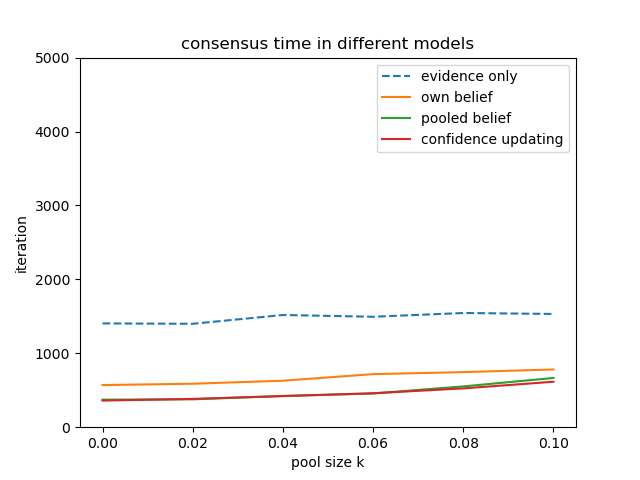
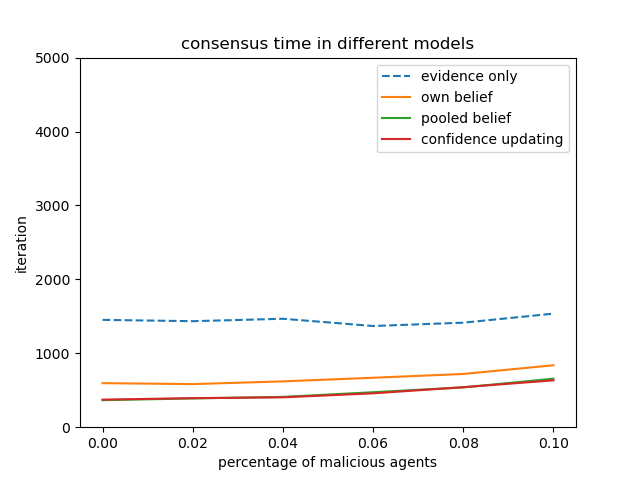
add malicious type 2 min rule

diff --git a/malicious_2_malicious.py b/malicious_2_malicious.py
@@ -56,15 +56,12 @@ consensus_own = []
 consensus_pooled = []
 consensus_confidence = []
 
-
-threshold_ls = [0.1, 0.3, 0.5, 0.7, 0.9]
-
 k = 5
 
-malicious = 0.1
+mal_x_ls = [0, 0.02, 0.04, 0.06, 0.08, 0.1]
 
 
-for threshold in threshold_ls:
+for malicious in mal_x_ls:
     pooling = False
     model = None
     malicious_type = None
@@ -79,7 +76,7 @@ for threshold in threshold_ls:
 
     pooling = True
     model = 'bc_own_belief'
-    malicious_type = 'fixed_belief'
+    malicious_type = 'min_rule'
 
     result_own = simulate_model(simulation_times=simulation_times, pop_n=pop_n, max_iteration=max_iteration,
                                 model=model, malicious_type=malicious_type,
@@ -91,7 +88,7 @@ for threshold in threshold_ls:
 
     pooling = True
     model = 'bc_pooled_belief'
-    malicious_type = 'fixed_belief'
+    malicious_type = 'min_rule'
     result_pooled = simulate_model(simulation_times=simulation_times, pop_n=pop_n, max_iteration=max_iteration,
                                    model=model, malicious_type=malicious_type,
                                    k=k, init_x=init_x, mal_x=mal_x, alpha=alpha, prob_evidence=prob_evidence,
@@ -102,7 +99,7 @@ for threshold in threshold_ls:
 
     pooling = True
     model = 'confidence_updating'
-    malicious_type = 'fixed_belief'
+    malicious_type = 'min_rule'
     result_confidence = simulate_model(simulation_times=simulation_times, pop_n=pop_n, max_iteration=max_iteration,
                                        model=model, malicious_type=malicious_type,
                                        k=k, init_x=init_x, mal_x=mal_x, alpha=alpha, prob_evidence=prob_evidence,
@@ -111,30 +108,32 @@ for threshold in threshold_ls:
     belief_confidence.append(result_confidence['belief_avg_true_good'].mean(axis=1)[-1])
     consensus_confidence.append(int(result_confidence['consensus'].mean()))
 
-plt.figure('avg belief (threshold)')
+plt.figure('avg belief (malicious)')
 
-plt.plot(threshold_ls, belief_evidence, '--')
-plt.plot(threshold_ls, belief_own)
-plt.plot(threshold_ls, belief_pooled)
-plt.plot(threshold_ls, belief_confidence)
+plt.plot(mal_x_ls, belief_evidence, '--')
+plt.plot(mal_x_ls, belief_own)
+plt.plot(mal_x_ls, belief_pooled)
+plt.plot(mal_x_ls, belief_confidence)
 plt.ylim(0, 1.1)
 plt.legend(['evidence only', 'own belief', 'pooled belief', 'confidence updating'])
 plt.title(f'average belief over {int(max_iteration)} iterations in different models')
-plt.xlabel('threshold')
+plt.xlabel('percentage of malicious agents')
 plt.ylabel('avg belief')
-plt.savefig(file_name + 'malicious_1_threshold_avg_belief.png')
+plt.savefig(file_name + 'malicious_2_malicious_avg_belief.png')
 
 
-plt.figure('consensus (threshold)')
+plt.figure('consensus (malicious)')
 
-plt.plot(threshold_ls, consensus_evidence, '--')
-plt.plot(threshold_ls, consensus_own)
-plt.plot(threshold_ls, consensus_pooled)
-plt.plot(threshold_ls, consensus_confidence)
+plt.plot(mal_x_ls, consensus_evidence, '--')
+plt.plot(mal_x_ls, consensus_own)
+plt.plot(mal_x_ls, consensus_pooled)
+plt.plot(mal_x_ls, consensus_confidence)
 plt.ylim(0, max_iteration)
 plt.legend(['evidence only', 'own belief', 'pooled belief', 'confidence updating'])
 plt.title('consensus time in different models')
-plt.xlabel('threshold')
+plt.xlabel('percentage of malicious agents')
 plt.ylabel('iteration')
-plt.savefig(file_name + 'malicious_1_threshold_consensus.png')
+plt.savefig(file_name + 'malicious_2_malicious_consensus.png')
+
+
 

diff --git a/malicious_2_pool_size.py b/malicious_2_pool_size.py
@@ -57,14 +57,9 @@ consensus_pooled = []
 consensus_confidence = []
 
 
-threshold_ls = [0.1, 0.3, 0.5, 0.7, 0.9]
-
-k = 5
-
-malicious = 0.1
 
 
-for threshold in threshold_ls:
+for k in pool_ls:
     pooling = False
     model = None
     malicious_type = None
@@ -79,7 +74,7 @@ for threshold in threshold_ls:
 
     pooling = True
     model = 'bc_own_belief'
-    malicious_type = 'fixed_belief'
+    malicious_type = 'min_rule'
 
     result_own = simulate_model(simulation_times=simulation_times, pop_n=pop_n, max_iteration=max_iteration,
                                 model=model, malicious_type=malicious_type,
@@ -91,7 +86,7 @@ for threshold in threshold_ls:
 
     pooling = True
     model = 'bc_pooled_belief'
-    malicious_type = 'fixed_belief'
+    malicious_type = 'min_rule'
     result_pooled = simulate_model(simulation_times=simulation_times, pop_n=pop_n, max_iteration=max_iteration,
                                    model=model, malicious_type=malicious_type,
                                    k=k, init_x=init_x, mal_x=mal_x, alpha=alpha, prob_evidence=prob_evidence,
@@ -102,7 +97,7 @@ for threshold in threshold_ls:
 
     pooling = True
     model = 'confidence_updating'
-    malicious_type = 'fixed_belief'
+    malicious_type = 'min_rule'
     result_confidence = simulate_model(simulation_times=simulation_times, pop_n=pop_n, max_iteration=max_iteration,
                                        model=model, malicious_type=malicious_type,
                                        k=k, init_x=init_x, mal_x=mal_x, alpha=alpha, prob_evidence=prob_evidence,
@@ -111,30 +106,31 @@ for threshold in threshold_ls:
     belief_confidence.append(result_confidence['belief_avg_true_good'].mean(axis=1)[-1])
     consensus_confidence.append(int(result_confidence['consensus'].mean()))
 
-plt.figure('avg belief (threshold)')
+plt.figure('avg belief (pool size)')
 
-plt.plot(threshold_ls, belief_evidence, '--')
-plt.plot(threshold_ls, belief_own)
-plt.plot(threshold_ls, belief_pooled)
-plt.plot(threshold_ls, belief_confidence)
+plt.plot(pool_ls, belief_evidence, '--')
+plt.plot(pool_ls, belief_own)
+plt.plot(pool_ls, belief_pooled)
+plt.plot(pool_ls, belief_confidence)
 plt.ylim(0, 1.1)
 plt.legend(['evidence only', 'own belief', 'pooled belief', 'confidence updating'])
 plt.title(f'average belief over {int(max_iteration)} iterations in different models')
-plt.xlabel('threshold')
+plt.xlabel('pool size k')
 plt.ylabel('avg belief')
-plt.savefig(file_name + 'malicious_1_threshold_avg_belief.png')
+plt.savefig(file_name + 'malicious_2_pool_size_avg_belief.png')
 
 
-plt.figure('consensus (threshold)')
+plt.figure('consensus (pool size)')
 
-plt.plot(threshold_ls, consensus_evidence, '--')
-plt.plot(threshold_ls, consensus_own)
-plt.plot(threshold_ls, consensus_pooled)
-plt.plot(threshold_ls, consensus_confidence)
+plt.plot(pool_ls, consensus_evidence, '--')
+plt.plot(pool_ls, consensus_own)
+plt.plot(pool_ls, consensus_pooled)
+plt.plot(pool_ls, consensus_confidence)
 plt.ylim(0, max_iteration)
 plt.legend(['evidence only', 'own belief', 'pooled belief', 'confidence updating'])
 plt.title('consensus time in different models')
-plt.xlabel('threshold')
+plt.xlabel('pool size k')
 plt.ylabel('iteration')
-plt.savefig(file_name + 'malicious_1_threshold_consensus.png')
+plt.savefig(file_name + 'malicious_2_pool_size_consensus.png')
+
 

diff --git a/malicious_2_threshold.py b/malicious_2_threshold.py
@@ -79,7 +79,7 @@ for threshold in threshold_ls:
 
     pooling = True
     model = 'bc_own_belief'
-    malicious_type = 'fixed_belief'
+    malicious_type = 'min_rule'
 
     result_own = simulate_model(simulation_times=simulation_times, pop_n=pop_n, max_iteration=max_iteration,
                                 model=model, malicious_type=malicious_type,
@@ -91,7 +91,7 @@ for threshold in threshold_ls:
 
     pooling = True
     model = 'bc_pooled_belief'
-    malicious_type = 'fixed_belief'
+    malicious_type = 'min_rule'
     result_pooled = simulate_model(simulation_times=simulation_times, pop_n=pop_n, max_iteration=max_iteration,
                                    model=model, malicious_type=malicious_type,
                                    k=k, init_x=init_x, mal_x=mal_x, alpha=alpha, prob_evidence=prob_evidence,
@@ -102,7 +102,7 @@ for threshold in threshold_ls:
 
     pooling = True
     model = 'confidence_updating'
-    malicious_type = 'fixed_belief'
+    malicious_type = 'min_rule'
     result_confidence = simulate_model(simulation_times=simulation_times, pop_n=pop_n, max_iteration=max_iteration,
                                        model=model, malicious_type=malicious_type,
                                        k=k, init_x=init_x, mal_x=mal_x, alpha=alpha, prob_evidence=prob_evidence,
@@ -122,7 +122,7 @@ plt.legend(['evidence only', 'own belief', 'pooled belief', 'confidence updating
 plt.title(f'average belief over {int(max_iteration)} iterations in different models')
 plt.xlabel('threshold')
 plt.ylabel('avg belief')
-plt.savefig(file_name + 'malicious_1_threshold_avg_belief.png')
+plt.savefig(file_name + 'malicious_2_threshold_avg_belief.png')
 
 
 plt.figure('consensus (threshold)')
@@ -136,5 +136,5 @@ plt.legend(['evidence only', 'own belief', 'pooled belief', 'confidence updating
 plt.title('consensus time in different models')
 plt.xlabel('threshold')
 plt.ylabel('iteration')
-plt.savefig(file_name + 'malicious_1_threshold_consensus.png')
+plt.savefig(file_name + 'malicious_2_threshold_consensus.png')
 

diff --git a/malicious_1_pool_size.py b/malicious_1_pool_size.py
@@ -24,7 +24,7 @@ k = 10
 max_iteration = 5000
 
 # simulation times
-simulation_times = 50
+simulation_times = 100
 
 # P(E|H1) = 1 - alpha   if E = H1
 # P(E|H1) = alpha       if E = H2
@@ -112,7 +112,7 @@ plt.plot(pool_ls, belief_evidence, '--')
 plt.plot(pool_ls, belief_own)
 plt.plot(pool_ls, belief_pooled)
 plt.plot(pool_ls, belief_confidence)
-plt.ylim(0, 1)
+plt.ylim(0, 1.1)
 plt.legend(['evidence only', 'own belief', 'pooled belief', 'confidence updating'])
 plt.title(f'average belief over {int(max_iteration)} iterations in different models')
 plt.xlabel('pool size k')
@@ -193,7 +193,7 @@ plt.savefig(file_name + 'malicious_1_pool_size_consensus.png')
 # plt.plot(mal_x_ls, belief_pooled)
 # plt.plot(mal_x_ls, belief_confidence)
 #
-# plt.ylim(0, 1)
+# plt.ylim(0, 1.1)
 # plt.legend(['evidence only', 'own belief', 'pooled belief', 'confidence updating'])
 # plt.title('average belief over 1000 iterations in different models')
 #
@@ -262,7 +262,7 @@ plt.savefig(file_name + 'malicious_1_pool_size_consensus.png')
 #
 # plt.legend(['evidence only', 'own belief', 'pooled belief', 'confidence updating'])
 # plt.title('average belief over 1000 iterations in different models')
-# plt.ylim(0, 1)
+# plt.ylim(0, 1.1)
 # plt.xlabel('threshold')
 # plt.ylabel('avg belief')
 # plt.savefig(file_name + 'malicious_1_threshold_avg_belief.png')

diff --git a/malicious_1_malicious.py b/malicious_1_malicious.py
@@ -24,7 +24,7 @@ k = 10
 max_iteration = 5000
 
 # simulation times
-simulation_times = 50
+simulation_times = 100
 
 # P(E|H1) = 1 - alpha   if E = H1
 # P(E|H1) = alpha       if E = H2
@@ -114,10 +114,10 @@ plt.plot(mal_x_ls, belief_evidence, '--')
 plt.plot(mal_x_ls, belief_own)
 plt.plot(mal_x_ls, belief_pooled)
 plt.plot(mal_x_ls, belief_confidence)
-plt.ylim(0, 1)
+plt.ylim(0, 1.1)
 plt.legend(['evidence only', 'own belief', 'pooled belief', 'confidence updating'])
 plt.title(f'average belief over {int(max_iteration)} iterations in different models')
-plt.xlabel('pool size k')
+plt.xlabel('percentage of malicious agents')
 plt.ylabel('avg belief')
 plt.savefig(file_name + 'malicious_1_malicious_avg_belief.png')
 
@@ -131,7 +131,7 @@ plt.plot(mal_x_ls, consensus_confidence)
 plt.ylim(0, max_iteration)
 plt.legend(['evidence only', 'own belief', 'pooled belief', 'confidence updating'])
 plt.title('consensus time in different models')
-plt.xlabel('pool size k')
+plt.xlabel('percentage of malicious agents')
 plt.ylabel('iteration')
 plt.savefig(file_name + 'malicious_1_malicious_consensus.png')
 

diff --git a/malicious_2.py b/malicious_2.py
@@ -21,7 +21,7 @@ mal_x = 0.2
 k = 10
 
 # maximum iteration
-max_iteration = 1000
+max_iteration = 5000
 
 # simulation times
 simulation_times = 50
